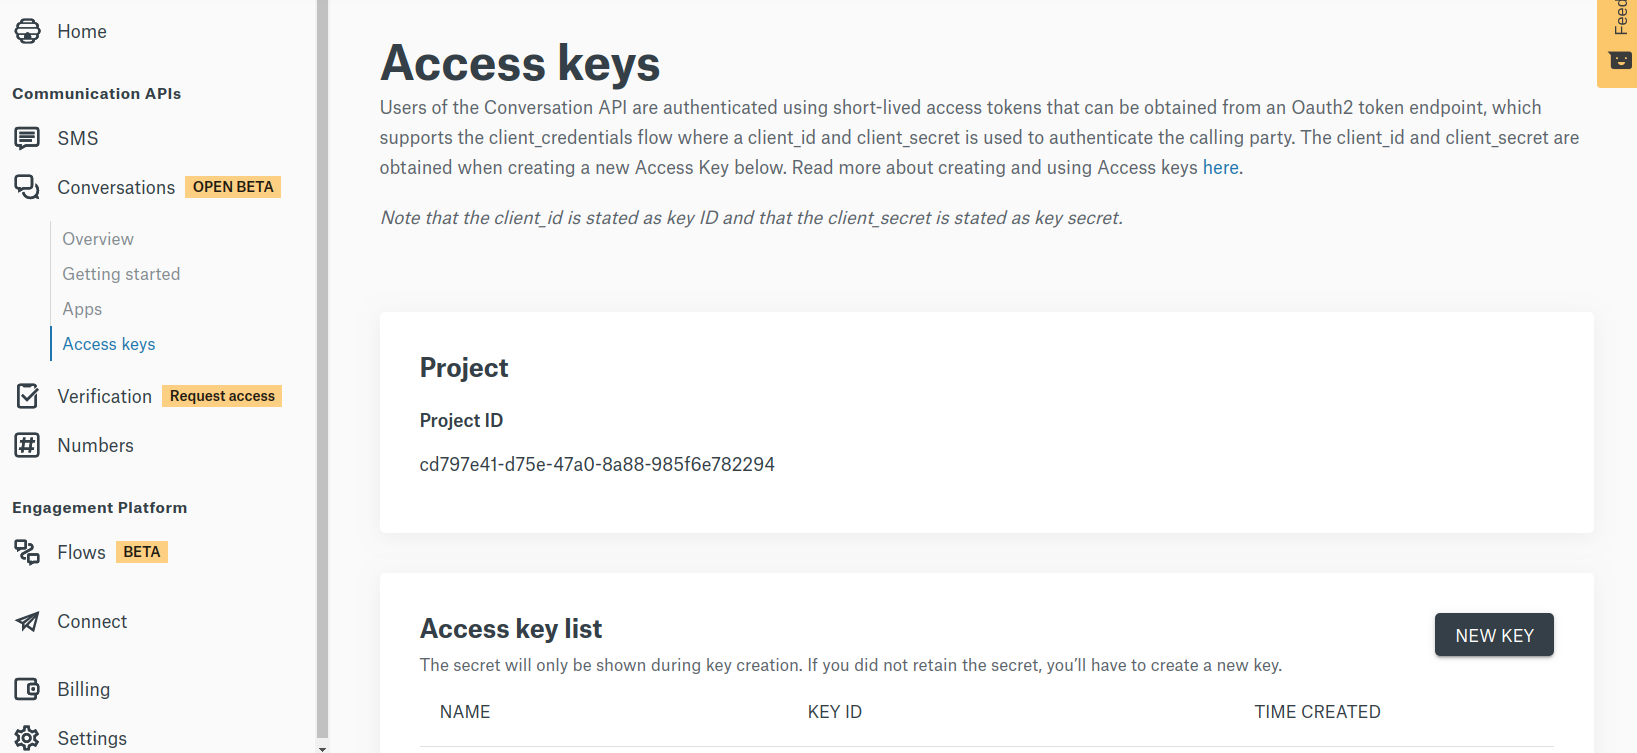
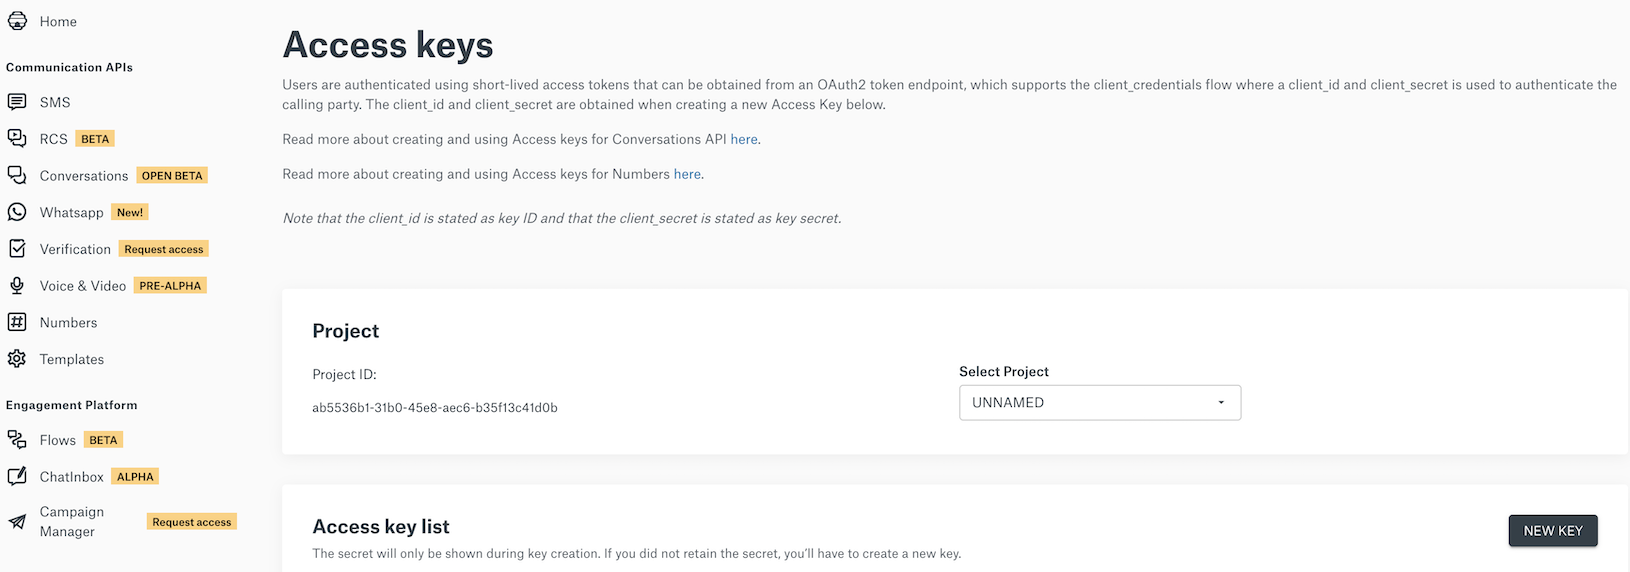
ConvAPI: update access keys mentions & update some pics

diff --git a/docs/conversation/conversation.md b/docs/conversation/conversation.md
@@ -152,7 +152,7 @@ Currently Sinch Conversation API is available in:
 
 ### Authentication
 
-The Conversation API uses OAuth2 **Access Tokens** to authenticate API calls. The first step to obtaining an **Access Token** is to create an **Access Key** in the [Sinch portal](https://dashboard.sinch.com/convapi/keys). A **client_id** and **client_secret** will be provided when creating an **Access Key** in the portal. The **project** ID will also be visible on the **Access Key** page in the portal. The created **Access Key** can be used in the different authentication flows in both regions. The following snippet illustrates how to obtain an **Access Token** that can be used to authenticate towards the Conversation API in the US. Please note that it is not possible to use the obtained **Access Token** to authenticate towards the Conversation API in the EU. One should instead obtain a valid **Access Token** for the corresponding EU endpoint.
+The Conversation API uses OAuth2 **Access Tokens** to authenticate API calls. The first step to obtaining an **Access Token** is to create an **Access Key** in the [Sinch portal](https://dashboard.sinch.com/settings/access-keys) under Settings -> Access Keys. A **client_id** and **client_secret** will be provided when creating an **Access Key** in the portal. The **project** ID will also be visible on the **Access Key** page in the portal. The created **Access Key** can be used in the different authentication flows in both regions. The following snippet illustrates how to obtain an **Access Token** that can be used to authenticate towards the Conversation API in the US. Please note that it is not possible to use the obtained **Access Token** to authenticate towards the Conversation API in the EU. One should instead obtain a valid **Access Token** for the corresponding EU endpoint.
 
 ```console
 curl https://us.auth.sinch.com/oauth2/token -d grant_type=client_credentials --user <client_id>:<client_secret>
@@ -165,7 +165,7 @@ curl -H "Authorization: Bearer <access token>" https://us.conversation.api.sinch
 ```
 
 #### Support for Basic Authentication
-It is also possible to use Basic Authentication to authenticate towards the Conversation API. The recommendation is to the OAuth2 flow, as described above, for increased security and throughput. The **username** and **password** correspond to the **client_id** and **client_secret** obtained when creating an **Access Key**. See below for an example of how to authenticate towards the Conversation API, in the US, using Basic Authentication. It is possible to authenticate towards the Conversation API, in the EU, in the same way since the created **Access Key** is valid for the EU region as well.
+It is also possible to use Basic Authentication to authenticate towards the Conversation API. The recommendation is to use the OAuth2 flow, as described above, for increased security and throughput. The **username** and **password** correspond to the **client_id** and **client_secret** obtained when creating an **Access Key**. See below for an example of how to authenticate towards the Conversation API, in the US, using Basic Authentication. It is possible to authenticate towards the Conversation API, in the EU, in the same way since the created **Access Key** is valid for the EU region as well.
 
 ```console
 curl https://us.conversation.api.sinch.com/v1beta/projects/<Project ID>/apps --user <client_id>:<client_secret>

diff --git a/docs/conversation/conversation-send-sms.md b/docs/conversation/conversation-send-sms.md
@@ -5,7 +5,7 @@ hidden: false
 next:
  pages:
   - conversation-receive-a-message
-  - conversation-send-a-message-with-fb-messsenger
+  - conversation-send-a-message-with-fb-messenger
 ---
 
 
@@ -23,11 +23,11 @@ If you are missing any of items 1-3 above you should begin by registering online
 
 ### Create a New Conversations App
 
-To create a new Conversations App, simply sign in to your [*Sinch Dashboard account*](https://dashboard.sinch.com) and use the left hand navigation to access Conversations > Apps.
+To create a new Conversations App, simply sign in to your [*Sinch Dashboard account*](https://dashboard.sinch.com) and use the menu on the left to access Conversations > Apps.
 
-![dashboard image](images/channel-support/sms/sinch_conversations_apps.png))
+Click on the *New App* button on the right, "Name" your App, choose an appropriate region for it, and click *Create*.
 
-Click on the *New App* button on the right, "Name" your App and click *Create*.
+![dashboard image](images/channel-support/sms/sinch_conversations_apps.png)
 
 ### Add an SMS Channel to your Conversations App
 
@@ -35,19 +35,25 @@ In your Sinch Dashboard, navigate to Conversations > Apps.  Click on the *"App N
 
 ![app added](images/channel-support/sms/sinch_conversations_apps_added.png)
 
-Under *Channels* click on *"Add Channel"*.  Use the drop down to select *"SMS"*, add your SMS *Service Plan ID* to the *"Sender ID"* field, and your SMS Service Plan *API Token* to the channel and click *"Save"*.
+Under *Set up channels* find SMS channel and click on *"Set Up Channel"*. 
+
+![new sms channel](images/channel-support/sms/sinch_conversations_new_app_add_channels.png)
+
+For setting up the SMS channel you need to choose your SMS *Service Plan ID* from the drop-down and click *"Save"*.
 
 ![new sms channel](images/channel-support/sms/sinch_conversations_new_app_add_sms_channel_form.png)
 
 You have added an SMS Channel to your App.  Just a few more steps to go.
 
+![new sms channel](images/channel-support/sms/sinch_conversations_sms_channel_done.png)
+
 ### Fetch Oauth2 Token needed for authentication
 
-Go to the Access Keys page and create new key by pressing the "New Key" button:
+Go to the Access Keys page under Settings and create new key by pressing the "New Key" button:
 
 ![access keys](images/channel-support/sms/sinch_conversation_access_keys.png)
 
-Be sure to to copy and store in a safe place the Key Secret you will get. You will not be able to retrieve it again once you’ve created the key.
+Be sure to copy and store in a safe place the Key Secret you will get. You will not be able to retrieve it again once you’ve created the key.
 
 Then use the key id and key secret to obtain an access token:
 

diff --git a/docs/conversation/conversation-receive-a-message.md b/docs/conversation/conversation-receive-a-message.md
@@ -7,7 +7,7 @@ next:
     - conversation-send-rich-messages-with-fb-messenger
 hidden: false 
 ---
-In this guide we use the [Facebook Messenger](doc:conversation-send-a-message-with-fb-messsenger), if you like you can use the [SMS channel](doc:conversation-send-sms) or any [other channel](doc:conversation-channel-support)
+In this guide we use the [Facebook Messenger](doc:conversation-send-a-message-with-fb-messenger), if you like you can use the [SMS channel](doc:conversation-send-sms) or any [other channel](doc:conversation-channel-support)
 
 ## Create a simple webhook using Node.js
 
@@ -81,7 +81,7 @@ Now your webhook is setup with the Conversation App.
 ## Start a Conversation
 
 Now that your webhook is setup with the Conversation App and ngrok along with your node app are running and listening to port 3000- it's time to test the webhook.
-For this demo, we will be using Facebook Messenger channel as our example. Open up Facebook Messenger and send a message to your test account. If you do not have an account, please look into [Send a message with Facebook Messenger](doc:conversation-send-a-message-with-fb-messsenger) before proceeding.
+For this demo, we will be using Facebook Messenger channel as our example. Open up Facebook Messenger and send a message to your test account. If you do not have an account, please look into [Send a message with Facebook Messenger](doc:conversation-send-a-message-with-fb-messenger) before proceeding.
 
 ![SendingMessage](images/channel-support/messenger/fb_message_firstmsg.png)
 

diff --git a/docs/conversation/conversation-send-a-message-with-fb-messenger.md b/docs/conversation/conversation-send-a-message-with-fb-messenger.md
@@ -1,7 +1,7 @@
 ---
-title: Send a FaceBook Messenger message
+title: Send a Facebook Messenger message
 excerpt: >-
-  In this section you will learn how to create and configure a basic FaceBook Business Page with Messenger chat feature. Once you complete the steps below you will have a FaceBook App, FaceBook Business Page with Messenger Chat button, a Messenger Token, and a configured Messenger Webhook to use with the Sinch Conversation API.
+  In this section you will learn how to create and configure a basic Facebook Business Page with Messenger chat feature. Once you complete the steps below you will have a Facebook App, Facebook Business Page with Messenger Chat button, a Messenger Token, and a configured Messenger Webhook to use with the Sinch Conversation API.
 hidden: false
 ---
 
